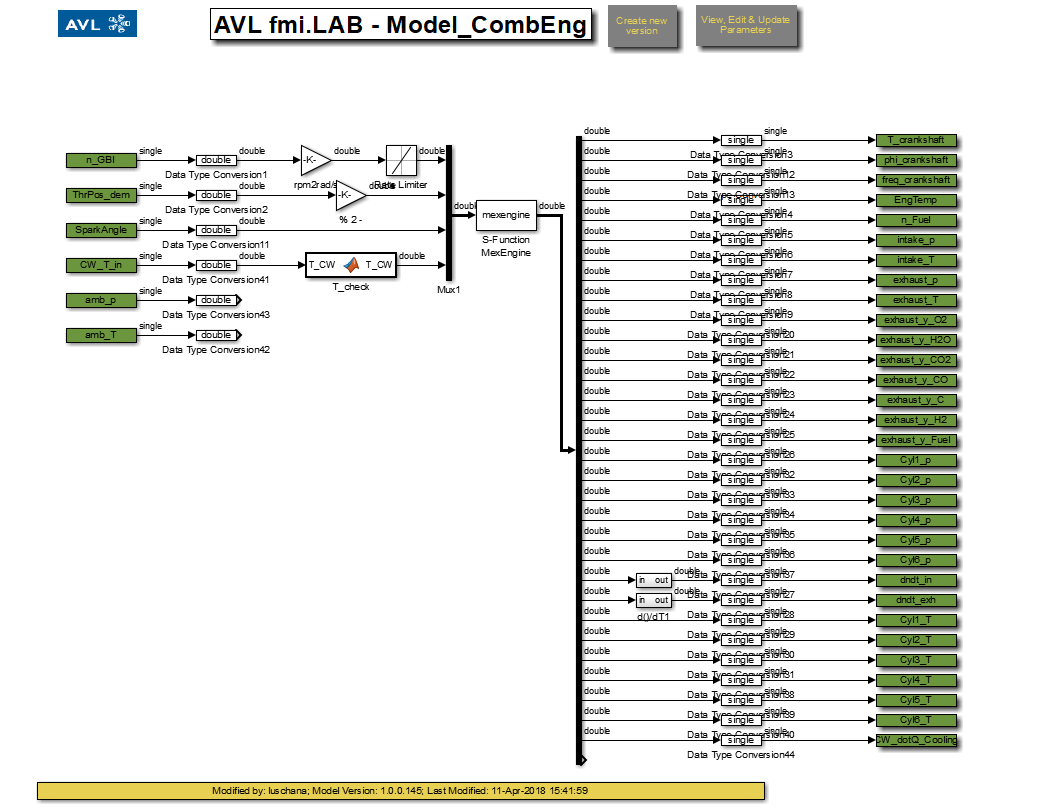
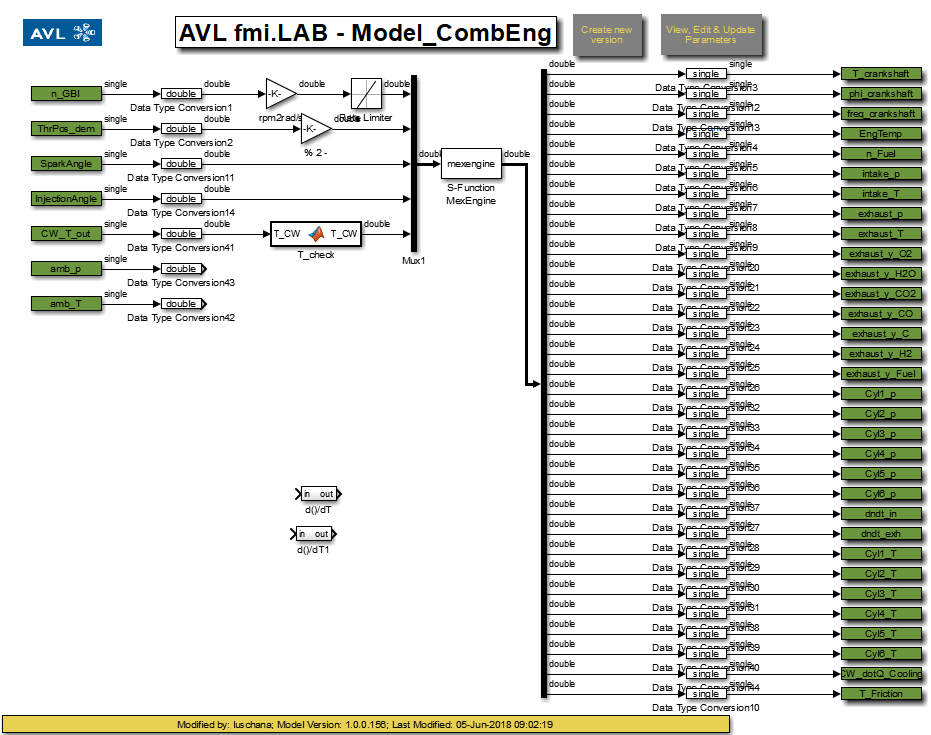
set feedtrough option for all mexEngine Inports

diff --git a/mexengine.cpp b/mexengine.cpp
@@ -31,11 +31,15 @@ static void mdlInitializeSizes(SimStruct *S){
     }
 
     // Specify I/O
+    int nPortCntIn = 5;
+    int nPortCntOut = 32;
     if (!ssSetNumInputPorts(S, 1)) return;
-    ssSetInputPortWidth(S, 0, 5);
-    ssSetInputPortDirectFeedThrough(S, 0, 1);
+    ssSetInputPortWidth(S, 0, nPortCntIn);
+    for (int i = 0; i < nPortCntIn; i++) {
+        ssSetInputPortDirectFeedThrough(S, i, 1);
+    }
     if (!ssSetNumOutputPorts(S,1)) return;
-    ssSetOutputPortWidth(S, 0, 32);
+    ssSetOutputPortWidth(S, 0, nPortCntOut);
 
     ssSetNumSampleTimes(S, 1);
 

diff --git a/definitions.h b/definitions.h
@@ -48,7 +48,7 @@ const double EPSILON = pow(10.0,-9.0); // max deviation of double numbers
 
 // engine consts
 // mechanical
-const int Ncyl = 4; // number of cylinders
+const int Ncyl = 1; // number of cylinders
 const double Vcyl = 0.5*pow(10.0,-3.0); //[m3] cylinder volume
 const double chi = 12.0; // compression factor
 const double w_engine_min = 150.0*M_PI/30.0; // minimum engine speed -- injection starting point
